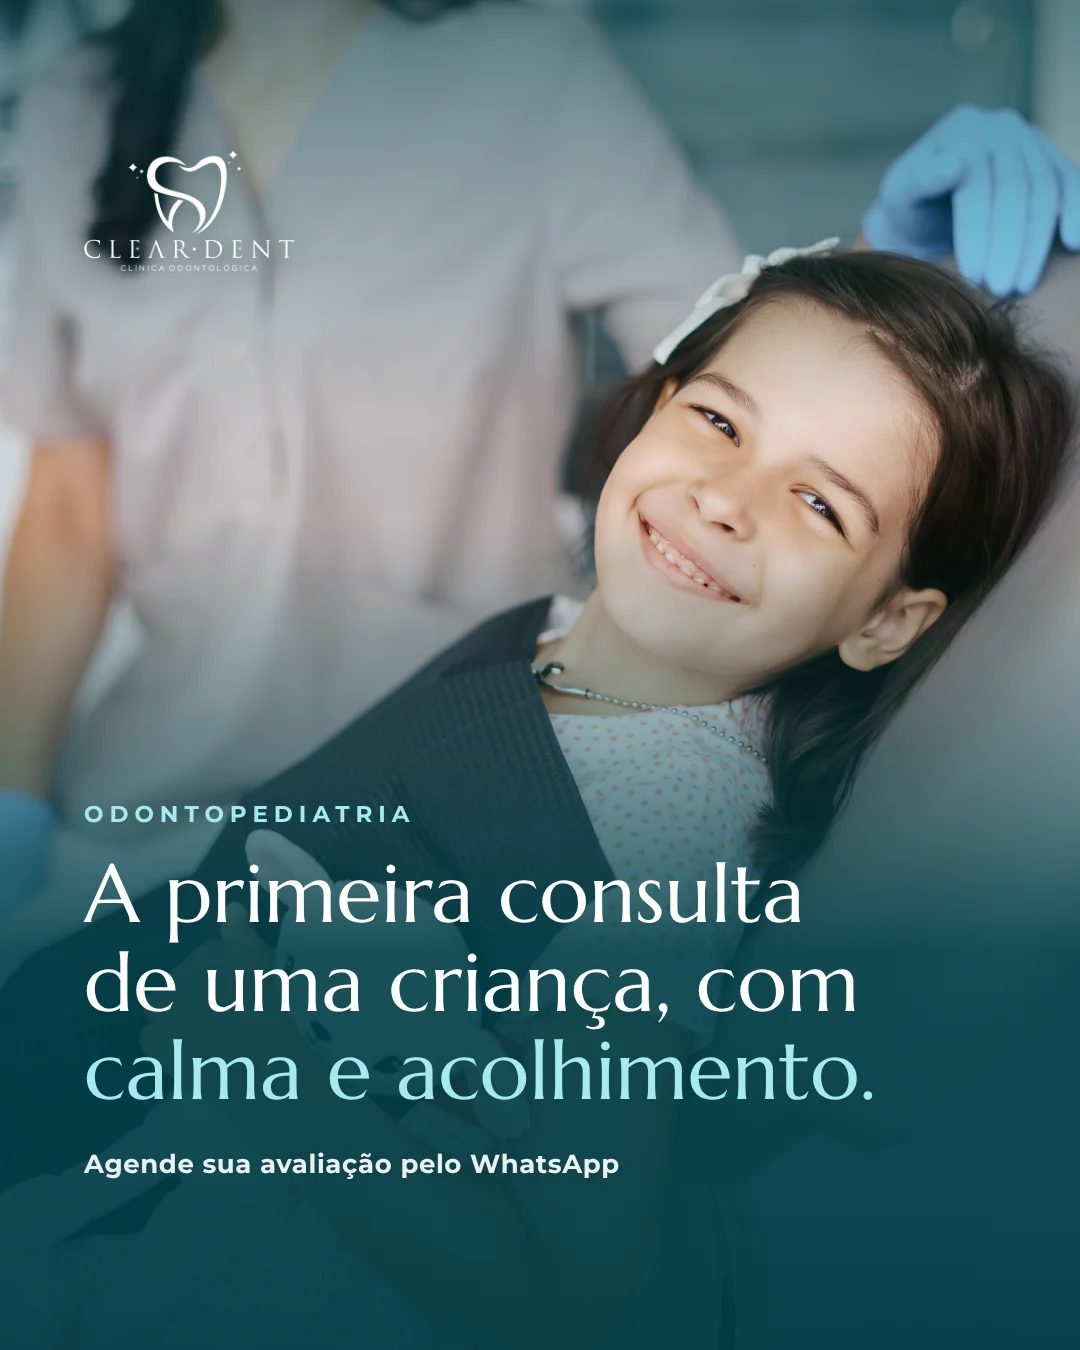
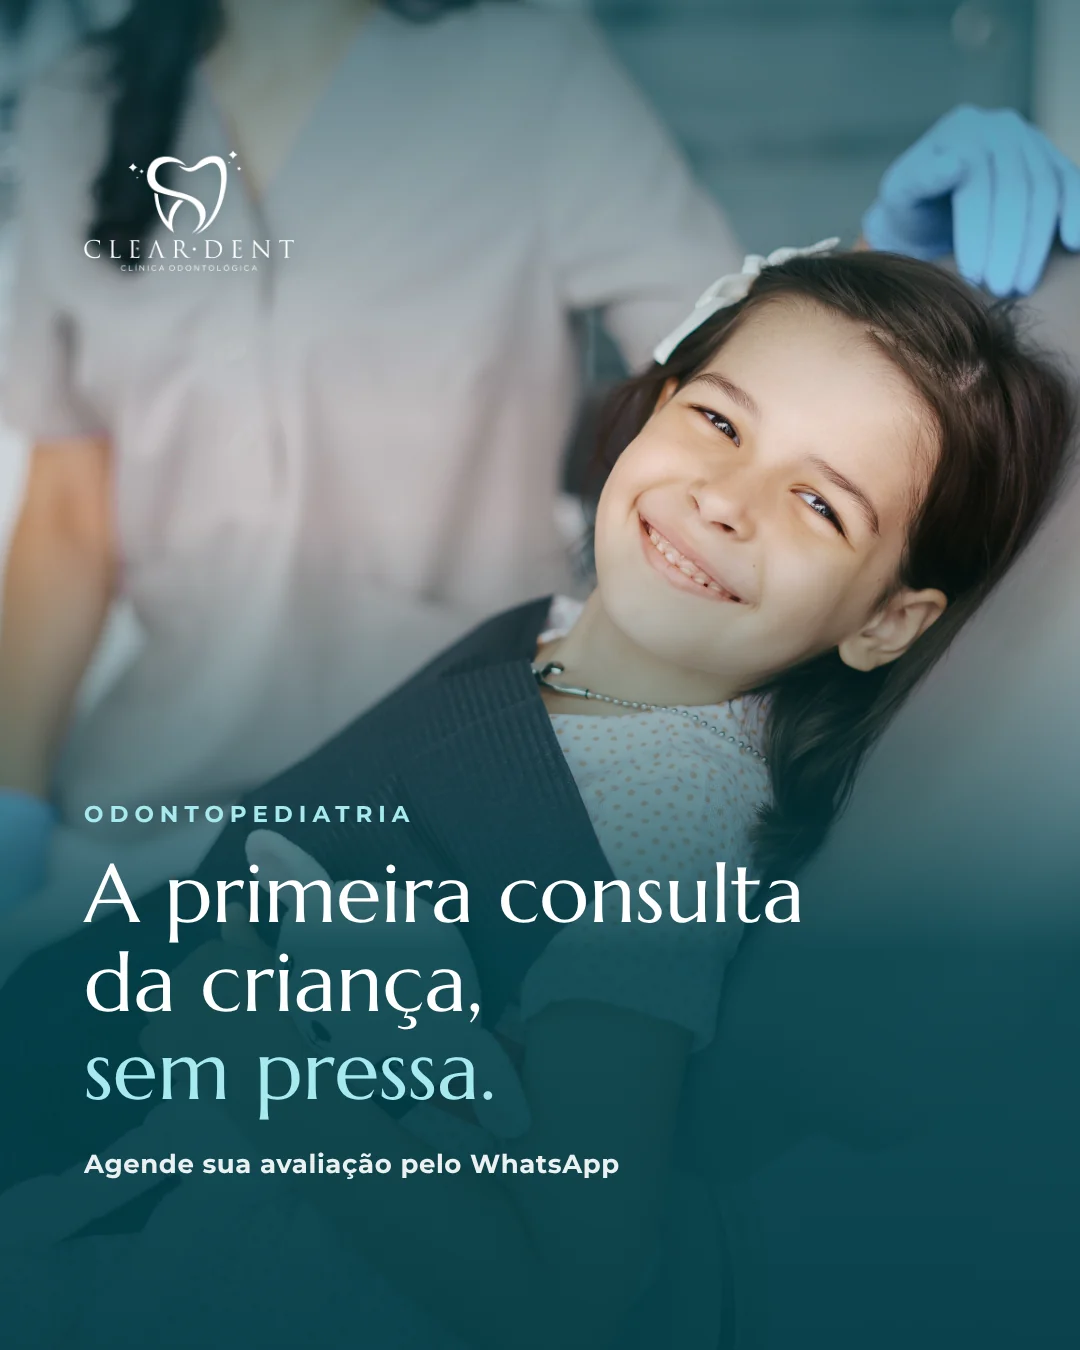
Novos titulos dos cards 1 e 2 do anuncio A
Claude-Session: https://claude.ai/code/session_018CVPRMe9JzVpRwqamrd9Tx

Changed region(s): [[0.0611, 0.7156, 0.7944, 0.84], [0.6417, 0.7156, 0.7944, 0.7467]]

diff --git a/index.html b/index.html
@@ -264,7 +264,7 @@ Na Clear Dent, a primeira consulta é um primeiro passo, e ele pode ser dado no 
 
 
 
-<span class="tg">#odontopediatria #dentistainfantil #necessidadesespeciais #acolhimento #saudebucalinfantil #nilopolis #cleardent</span></div><button class="more">mais</button><small>28 de outubro</small></div><div class="appr"><a class="ab ok" href="https://wa.me/5521990800215?text=Ol%C3%A1%21%20Aprovei%20o%20post%208%20%28Reel%20Cada%20crian%C3%A7a%20tem%20o%20seu%20tempo%29%20da%20Clear%20Dent.%20Pode%20seguir%20com%20a%20publica%C3%A7%C3%A3o." target="_blank" rel="noopener"><svg width="16" height="16" viewBox="0 0 24 24" fill="none" stroke="currentColor" stroke-width="2.8" stroke-linecap="round" stroke-linejoin="round"><path d="M5 12.5l4.2 4.2L19 7"/></svg> Aprovar</a><a class="ab ed" href="https://wa.me/5521990800215?text=Ol%C3%A1%21%20Quero%20pedir%20um%20ajuste%20no%20post%208%20%28Reel%20Cada%20crian%C3%A7a%20tem%20o%20seu%20tempo%29%20da%20Clear%20Dent%3A%20" target="_blank" rel="noopener"><svg width="16" height="16" viewBox="0 0 24 24" fill="none" stroke="currentColor" stroke-width="2.4" stroke-linecap="round" stroke-linejoin="round"><path d="M4 20l4-1 11-11-3-3L5 16z"/></svg> Pedir ajuste</a></div></section><section class="post" data-post="11" data-n="3" data-i="0" hidden><div class="ph2"><img src="assets/avatar.webp" alt=""><div><b>clinica_clear_dent</b><span>Anúncio · Versão A</span></div><svg width="20" height="20" viewBox="0 0 24 24" fill="currentColor"><circle cx="5" cy="12" r="1.8"/><circle cx="12" cy="12" r="1.8"/><circle cx="19" cy="12" r="1.8"/></svg></div><div class="vp"><div class="tr"><img src="assets/p11/s1.webp" alt="Anúncio A, Odontopediatria: A primeira consulta de uma criança, com calma e acolhimento. Slide 1 de 3" width="1080" height="1350" decoding="async"><img src="assets/p11/s2.webp" alt="Anúncio A, Ortodontia: Ortodontia também é para adultos. Slide 2 de 3" width="1080" height="1350" loading="lazy" decoding="async"><img src="assets/p11/s3.webp" alt="Anúncio A, Clínico Geral: Limpeza e prevenção para o seu sorriso. Slide 3 de 3" width="1080" height="1350" loading="lazy" decoding="async"></div><span class="cnt">1/3</span><button class="nvb l" aria-label="Slide anterior" hidden><svg width="16" height="16" viewBox="0 0 24 24" fill="none" stroke="currentColor" stroke-width="2.8" stroke-linecap="round" stroke-linejoin="round"><path d="M15 6l-6 6 6 6"/></svg></button><button class="nvb r" aria-label="Próximo slide"><svg width="16" height="16" viewBox="0 0 24 24" fill="none" stroke="currentColor" stroke-width="2.8" stroke-linecap="round" stroke-linejoin="round"><path d="M9 6l6 6-6 6"/></svg></button></div><div class="ico" aria-hidden="true"><svg width="26" height="26" viewBox="0 0 24 24" fill="none" stroke="currentColor" stroke-width="1.7" stroke-linejoin="round"><path d="M12 21s-7.5-4.7-9.3-9.6C1.5 7.8 4 4.8 7.2 4.8c2 0 3.6 1.1 4.8 2.9 1.2-1.8 2.8-2.9 4.8-2.9 3.2 0 5.7 3 4.5 6.6C19.5 16.3 12 21 12 21z"/></svg><svg width="26" height="26" viewBox="0 0 24 24" fill="none" stroke="currentColor" stroke-width="1.7" stroke-linejoin="round"><path d="M21 11.5a8.5 8.5 0 0 1-12.3 7.6L3.5 20.5l1.4-4.9A8.5 8.5 0 1 1 21 11.5z"/></svg><svg width="26" height="26" viewBox="0 0 24 24" fill="none" stroke="currentColor" stroke-width="1.7" stroke-linejoin="round" stroke-linecap="round"><path d="M22 3L9.5 10.5M22 3l-6.5 18-3.5-8-8-3.5z"/></svg><svg class="sv" width="26" height="26" viewBox="0 0 24 24" fill="none" stroke="currentColor" stroke-width="1.7" stroke-linejoin="round"><path d="M6 3h12v18l-6-4.5L6 21z"/></svg></div><div class="dots"></div><div class="cap"><div class="tx"><b>clinica_clear_dent</b> Cuidar do sorriso da família começa com uma consulta tranquila 🦷💙
+<span class="tg">#odontopediatria #dentistainfantil #necessidadesespeciais #acolhimento #saudebucalinfantil #nilopolis #cleardent</span></div><button class="more">mais</button><small>28 de outubro</small></div><div class="appr"><a class="ab ok" href="https://wa.me/5521990800215?text=Ol%C3%A1%21%20Aprovei%20o%20post%208%20%28Reel%20Cada%20crian%C3%A7a%20tem%20o%20seu%20tempo%29%20da%20Clear%20Dent.%20Pode%20seguir%20com%20a%20publica%C3%A7%C3%A3o." target="_blank" rel="noopener"><svg width="16" height="16" viewBox="0 0 24 24" fill="none" stroke="currentColor" stroke-width="2.8" stroke-linecap="round" stroke-linejoin="round"><path d="M5 12.5l4.2 4.2L19 7"/></svg> Aprovar</a><a class="ab ed" href="https://wa.me/5521990800215?text=Ol%C3%A1%21%20Quero%20pedir%20um%20ajuste%20no%20post%208%20%28Reel%20Cada%20crian%C3%A7a%20tem%20o%20seu%20tempo%29%20da%20Clear%20Dent%3A%20" target="_blank" rel="noopener"><svg width="16" height="16" viewBox="0 0 24 24" fill="none" stroke="currentColor" stroke-width="2.4" stroke-linecap="round" stroke-linejoin="round"><path d="M4 20l4-1 11-11-3-3L5 16z"/></svg> Pedir ajuste</a></div></section><section class="post" data-post="11" data-n="3" data-i="0" hidden><div class="ph2"><img src="assets/avatar.webp" alt=""><div><b>clinica_clear_dent</b><span>Anúncio · Versão A</span></div><svg width="20" height="20" viewBox="0 0 24 24" fill="currentColor"><circle cx="5" cy="12" r="1.8"/><circle cx="12" cy="12" r="1.8"/><circle cx="19" cy="12" r="1.8"/></svg></div><div class="vp"><div class="tr"><img src="assets/p11/s1.webp" alt="Anúncio A, Odontopediatria: A primeira consulta da criança, sem pressa. Slide 1 de 3" width="1080" height="1350" decoding="async"><img src="assets/p11/s2.webp" alt="Anúncio A, Ortodontia: Adultos também podem usar aparelhos. Slide 2 de 3" width="1080" height="1350" loading="lazy" decoding="async"><img src="assets/p11/s3.webp" alt="Anúncio A, Clínico Geral: Limpeza e prevenção para o seu sorriso. Slide 3 de 3" width="1080" height="1350" loading="lazy" decoding="async"></div><span class="cnt">1/3</span><button class="nvb l" aria-label="Slide anterior" hidden><svg width="16" height="16" viewBox="0 0 24 24" fill="none" stroke="currentColor" stroke-width="2.8" stroke-linecap="round" stroke-linejoin="round"><path d="M15 6l-6 6 6 6"/></svg></button><button class="nvb r" aria-label="Próximo slide"><svg width="16" height="16" viewBox="0 0 24 24" fill="none" stroke="currentColor" stroke-width="2.8" stroke-linecap="round" stroke-linejoin="round"><path d="M9 6l6 6-6 6"/></svg></button></div><div class="ico" aria-hidden="true"><svg width="26" height="26" viewBox="0 0 24 24" fill="none" stroke="currentColor" stroke-width="1.7" stroke-linejoin="round"><path d="M12 21s-7.5-4.7-9.3-9.6C1.5 7.8 4 4.8 7.2 4.8c2 0 3.6 1.1 4.8 2.9 1.2-1.8 2.8-2.9 4.8-2.9 3.2 0 5.7 3 4.5 6.6C19.5 16.3 12 21 12 21z"/></svg><svg width="26" height="26" viewBox="0 0 24 24" fill="none" stroke="currentColor" stroke-width="1.7" stroke-linejoin="round"><path d="M21 11.5a8.5 8.5 0 0 1-12.3 7.6L3.5 20.5l1.4-4.9A8.5 8.5 0 1 1 21 11.5z"/></svg><svg width="26" height="26" viewBox="0 0 24 24" fill="none" stroke="currentColor" stroke-width="1.7" stroke-linejoin="round" stroke-linecap="round"><path d="M22 3L9.5 10.5M22 3l-6.5 18-3.5-8-8-3.5z"/></svg><svg class="sv" width="26" height="26" viewBox="0 0 24 24" fill="none" stroke="currentColor" stroke-width="1.7" stroke-linejoin="round"><path d="M6 3h12v18l-6-4.5L6 21z"/></svg></div><div class="dots"></div><div class="cap"><div class="tx"><b>clinica_clear_dent</b> Cuidar do sorriso da família começa com uma consulta tranquila 🦷💙
 
 Na Clear Dent, em Nilópolis, você encontra três especialidades no mesmo lugar. Deslize e conheça cada uma 👉
 
